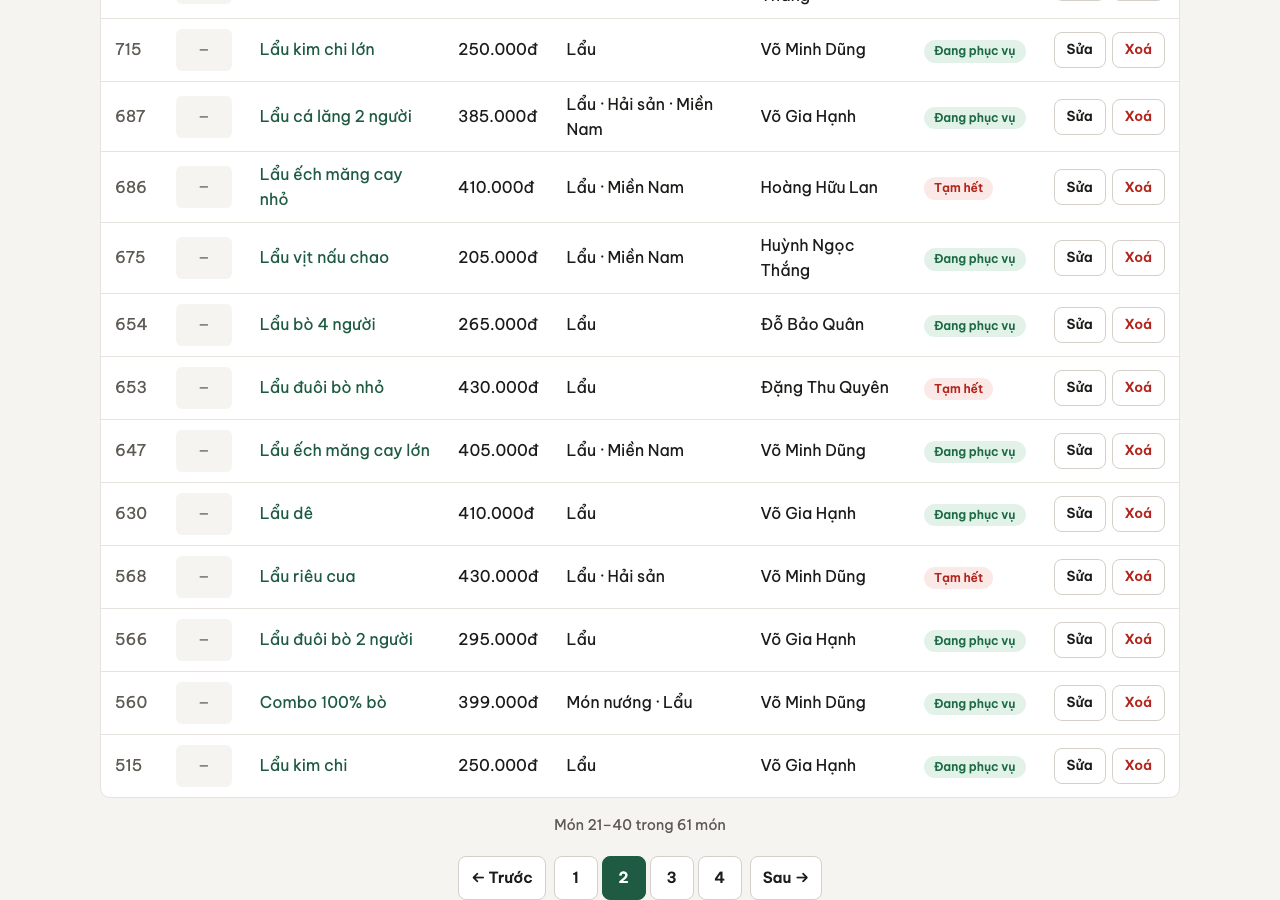
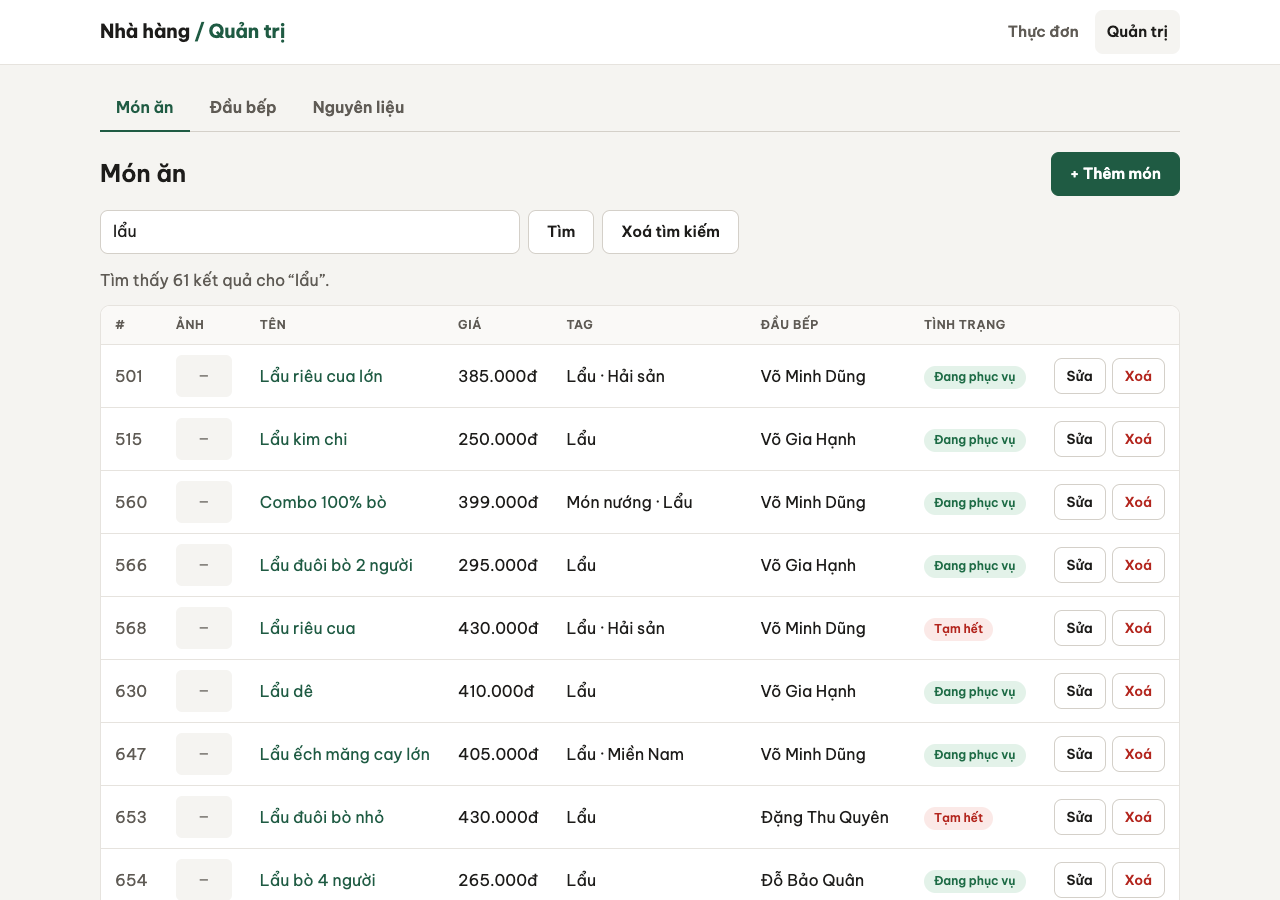
Nghiệm thu lại sau khi phân trang admin: README, hotrotrinhbay.html, kichban.html, evidence/ (admin món id tăng dần, admin đầu bếp trang 2) khớp code; check-api.sh 251/251; ghi lỗi tài liệu tràn ngang ở 375px (có từ bước 17, chưa sửa)

diff --git a/hotrotrinhbay.html b/hotrotrinhbay.html
@@ -158,7 +158,7 @@
       <h3>Chức năng</h3>
       <ul>
         <li><b>Dữ liệu:</b> 1.200 món, 60 đầu bếp, 250 nguyên liệu, 16 tag lưu thật trong Supabase; script seed tất định (chạy lại ra cùng dữ liệu).</li>
-        <li><b>Phân trang:</b> thực đơn <code>/dishes</code> có công tắc <b>Số trang / Tải thêm / Cuộn vô hạn</b>, cả ba gọi chung một API; admin món có số trang.</li>
+        <li><b>Phân trang:</b> thực đơn <code>/dishes</code> có công tắc <b>Số trang / Tải thêm / Cuộn vô hạn</b>, cả ba gọi chung một API; ba bảng quản trị (món, đầu bếp, nguyên liệu) có số trang, xếp id tăng dần.</li>
         <li><b>Lọc, sắp xếp:</b> theo tag, khoảng giá, trạng thái còn phục vụ; tên A→Z, giá tăng / giảm.</li>
         <li><b>Search:</b> cơ bản, nâng cao, toàn văn, gần đúng — đều tại server.</li>
         <li><b>URL:</b> điều kiện đã tìm (và số trang) nằm trên URL → Reload, copy link, Back/Forward mở lại đúng kết quả.</li>
@@ -173,7 +173,7 @@
         <li><b>Chuyển trang sau khi search:</b> giữ đúng bộ điều kiện, không trộn kết quả</li>
         <li><b>Xoá điều kiện, Reload, mở lại link:</b> khôi phục như thiết kế</li>
       </ol>
-      <p class="muted">Kết quả: API <b>211/211</b> kiểm tra (<code>check-api.sh</code>); truy vấn mẫu 14/14 đúng kỳ vọng; kịch bản trình duyệt bước 9–15 đạt hết; <b>cuộn hết 1.200 món: đủ id 1–1200, không trùng, không mất</b>. Chi tiết trong <code>BUILD_LOG.md</code>.</p>
+      <p class="muted">Kết quả: API <b>251/251</b> kiểm tra (<code>check-api.sh</code>, gồm 40 kiểm tra phân trang admin thêm sau nghiệm thu); truy vấn mẫu 14/14 đúng kỳ vọng; kịch bản trình duyệt bước 9–15 đạt hết; <b>cuộn hết 1.200 món: đủ id 1–1200, không trùng, không mất</b>. Chi tiết trong <code>BUILD_LOG.md</code>.</p>
     </div>
   </div>
 </section>
@@ -259,7 +259,8 @@
       <tr><td>Lọc tag, khoảng giá, trạng thái</td><td>Thực đơn, chế độ Nâng cao + chip tag</td><td>Toàn bộ món khớp</td><td>Nối bằng AND; ô trống = không lọc; <code>giá 0</code> và <code>available=false</code> là tiêu chí có hiệu lực</td></tr>
       <tr><td>Sắp xếp tên, giá tăng / giảm</td><td>Thực đơn (Cơ bản, Nâng cao)</td><td>Toàn bộ món khớp</td><td>Luôn thêm <code>id</code> làm thứ tự phụ → các trang chia trên cùng một thứ tự</td></tr>
       <tr><td>Xếp theo độ phù hợp</td><td>Toàn văn, Gần đúng</td><td>Toàn bộ món khớp</td><td>Ô sắp xếp bị khoá; điểm giảm dần rồi <code>id</code></td></tr>
-      <tr><td>Tìm theo tên hoặc tag, mới nhất trước</td><td>Admin món</td><td>Toàn bộ món</td><td>Món vừa thêm luôn ở trang 1</td></tr>
+      <tr><td>Tìm theo tên hoặc tag, id tăng dần</td><td>Admin món</td><td>Toàn bộ món khớp</td><td>Thứ tự cố định 1 → 1200; thêm món xong về trang 1 + thông báo, sửa xong về đúng trang đang xem</td></tr>
+      <tr><td>Tìm, id tăng dần, 20 dòng/trang</td><td>Admin đầu bếp, nguyên liệu</td><td>Toàn bộ đầu bếp / nguyên liệu khớp</td><td>Cùng dạng <code>{ items, total, page, pageSize }</code>; form món cần đủ danh sách gọi <code>?all=true</code></td></tr>
     </tbody>
   </table>
   </div>
@@ -348,7 +349,7 @@ COMMIT</code></pre>
       <p><code>100%</code> → 1 món (id 560), <code>Trà_</code> → 1 món (id 700), <code>\</code> → 1 món (id 960); <code>check-api.sh</code> phần D kiểm tra lại mỗi lần chạy; <code>wildcard-escape.sql</code> chạy cả hai phiên bản trên database.</p>
     </div>
   </div>
-  <p class="muted">Các lỗi khác tìm ra và đã sửa (danh sách cũ còn hiện thoáng qua khi đổi điều kiện ở Tải thêm, khung xương ngắn làm cuộn không tới đầu danh sách…) ghi trong <code>kichban.html</code> và <code>BUILD_LOG.md</code>.</p>
+  <p class="muted">Các lỗi khác tìm ra và đã sửa (danh sách cũ còn hiện thoáng qua khi đổi điều kiện ở Tải thêm, khung xương ngắn làm cuộn không tới đầu danh sách, ô tìm admin đầu bếp / nguyên liệu cũng hiểu <code>%</code> <code>_</code> là wildcard…) ghi trong <code>kichban.html</code> và <code>BUILD_LOG.md</code>.</p>
 </section>
 
 <!-- ============ 7. CÔNG NGHỆ ============ -->
@@ -366,7 +367,7 @@ COMMIT</code></pre>
       <tr><td><code>fetch</code> + <code>AbortController</code></td><td>Gọi API, huỷ request cũ</td><td>Đổi điều kiện nhanh thì response cũ không ghi đè hay nối vào kết quả mới</td></tr>
       <tr><td><code>IntersectionObserver</code></td><td>Cuộn vô hạn</td><td>Có sẵn trong browser; theo dõi một phần tử canh, không gắn sự kiện scroll</td></tr>
       <tr><td>CSS thuần</td><td>Giao diện, responsive, hiệu ứng cơ bản</td><td>Tiếp tục bộ màu block6; khung xương khi tải, món mới hiện dần; tắt chuyển động khi người dùng bật "giảm chuyển động"</td></tr>
-      <tr><td><code>check-api.sh</code> · <code>run-sql.js</code> · Chrome headless</td><td>Nghiệm thu</td><td>211 kiểm tra API; truy vấn mẫu có kỳ vọng; kịch bản trình duyệt gom id qua cả 3 kiểu UI</td></tr>
+      <tr><td><code>check-api.sh</code> · <code>run-sql.js</code> · Chrome headless</td><td>Nghiệm thu</td><td>251 kiểm tra API; truy vấn mẫu có kỳ vọng; kịch bản trình duyệt gom id qua cả 3 kiểu UI</td></tr>
       <tr><td>Git</td><td>Lưu phiên bản</td><td>Mỗi bước một commit; commit "Nghiệm thu giai đoạn I" đánh dấu mốc đạt đủ tiêu chí</td></tr>
     </tbody>
   </table>

diff --git a/kichban.html b/kichban.html
@@ -223,7 +223,7 @@ chefs  n &gt;───&lt; n tags              chef_tags        (chefId Cascade,
         <li><code>mode</code>: <code>basic</code> (mặc định) · <code>advanced</code> · <code>fulltext</code> · <code>fuzzy</code></li>
         <li><code>page</code> ≥ 1 (mặc định 1) · <code>pageSize</code> 1–100 (mặc định 12)</li>
         <li><code>q</code>: bắt buộc ở <code>fulltext</code>, <code>fuzzy</code></li>
-        <li><code>sort</code>: <code>ten</code> · <code>gia-tang</code> · <code>gia-giam</code> · <code>moi-nhat</code> (basic, advanced)</li>
+        <li><code>sort</code>: <code>ten</code> · <code>gia-tang</code> · <code>gia-giam</code> · <code>moi-nhat</code> (basic, advanced; <code>moi-nhat</code> = id giảm, giữ trong API, admin không dùng nữa)</li>
         <li><code>tag</code>, <code>minPrice</code>, <code>maxPrice</code>, <code>available</code>: chỉ <code>advanced</code>, nối bằng AND</li>
         <li><code>searchIn=name,tag</code>: admin tìm cả tên tag (basic)</li>
       </ul>
@@ -407,7 +407,7 @@ COMMIT</code></pre></li>
   <h3 style="margin-top:16px">Phần 3 — Tag và chức năng cũ (không hồi quy)</h3>
   <div class="card">
     <ol class="demo" start="18">
-      <li><strong>Admin món:</strong> <code>/admin/dishes</code> → <span class="see">20 món/trang, id 1200 ở đầu (mới nhất trước), 60 trang.</span> Tìm <code>lẩu</code> → <span class="see">61 món (tên hoặc tag), "Combo 100% bò" có trong kết quả.</span> Vào trang 3, sửa một món, Lưu → <span class="see">quay về đúng trang 3 + "Đã lưu thay đổi của món.", dòng được tô.</span></li>
+      <li><strong>Admin món:</strong> <code>/admin/dishes</code> → <span class="see">20 món/trang, id 1 ở đầu (id tăng dần), 60 trang; request <code>/api/dishes?pageSize=20</code>.</span> <code>/admin/chefs</code>, <code>/admin/ingredients</code> → <span class="see">cũng 20 dòng/trang ("Đầu bếp 1–20 trong 60 đầu bếp", 3 trang; nguyên liệu 13 trang), không còn tải cả 60 / 250 dòng.</span> Thêm một đầu bếp từ trang 2 → <span class="see">về trang 1 + "Đã thêm đầu bếp." (người mới ở cuối trang 4).</span> Tìm <code>lẩu</code> → <span class="see">61 món (tên hoặc tag), "Combo 100% bò" có trong kết quả.</span> Vào trang 3, sửa một món, Lưu → <span class="see">quay về đúng trang 3 + "Đã lưu thay đổi của món.", dòng được tô.</span></li>
       <li><strong>Thêm tag trong form:</strong> <code>/admin/chefs/new</code>, gõ tên, ô tìm tag gõ "Món Huế" → <span class="see">không có;</span> bấm "+ Thêm tag" → "Thêm và chọn" → <span class="see"><code>POST /api/tags</code>, tag mới đã tick sẵn, tên vẫn còn.</span> Thêm lại "món huế" → <span class="see">"Đã có tag tên này." (không phân biệt hoa thường).</span></li>
       <li><strong>Đầu bếp đúng chuyên môn:</strong> <code>/admin/dishes/new</code>, tick tag <strong>Lẩu</strong> → <span class="see">các đầu bếp chuyên Lẩu lên đầu danh sách, nhãn "Đúng chuyên môn".</span></li>
       <li><strong>Chức năng block6:</strong> <code>/admin/ingredients/1/delete</code> ("Thịt bò") → <span class="see">liệt kê món đang dùng, không có nút Xoá.</span> <code>/admin/chefs/7/delete</code> ("Bùi Thanh Tâm", 0 món) → <span class="see">xoá được ngay.</span> Tắt API → <span class="see">"Không tải được dữ liệu" + Thử lại ở cả Số trang và Tải thêm.</span></li>
@@ -442,6 +442,7 @@ COMMIT</code></pre></li>
       <tr><td>15</td><td>Chuyển trang không cuộn tới đầu danh sách</td><td>Khung xương 6 dòng làm trang thấp đi → khung xương 12 dòng = một trang</td></tr>
       <tr><td>16</td><td>Đường kẻ dưới mỗi món cong ở hai đầu</td><td><code>border-radius</code> của hiệu ứng nổi đặt sẵn → chỉ bo góc khi rê chuột</td></tr>
       <tr><td>17</td><td>Toàn văn "cá kho tộ": 10 món cùng hiện 1.000 nhưng id lộn xộn (8, 109, 201, 80…)</td><td><code>ts_rank</code> là float4, khác nhau ở sai số → làm tròn 3 chữ số trong SQL rồi mới xếp; thêm kiểm tra vào <code>check-api.sh</code> D</td></tr>
+      <tr><td>19</td><td>Ô tìm admin đầu bếp / nguyên liệu: <code>q=%</code>, <code>q=_</code> trả cả 60 / 250 dòng</td><td><code>searchWhere</code> giữ từ block6 chưa escape (bước 7 chỉ sửa tìm món) → mọi ô tìm admin đi qua <code>escapeLike</code>; <code>check-api.sh</code> F kiểm tra lại (total 0)</td></tr>
     </table></div>
   </div>
 </section>

diff --git a/README.md b/README.md
@@ -45,12 +45,13 @@ npx prisma db seed                                         # nạp dữ liệu m
 
 ```bash
 cd api
-./scripts/check-api.sh        # 211 kiểm tra (cần curl, jq; API đang chạy)
+./scripts/check-api.sh        # 251 kiểm tra (cần curl, jq; API đang chạy)
 ./scripts/check-api.sh A      # 74 — bảng REST của đề block6 + kỹ thuật + CORS
 ./scripts/check-api.sh B      # 34 — mở rộng block6 (quan hệ, ảnh, tìm admin, IN_USE, chuyển món)
 ./scripts/check-api.sh C      # 24 — phân trang: metadata, trang vượt phạm vi, page/pageSize sai, sort qua mọi trang
 ./scripts/check-api.sh D      # 44 — search 4 chế độ: escape % _ \, basic = advanced, 0 và false, fulltext, fuzzy (cùng điểm → id)
 ./scripts/check-api.sh E      # 35 — tag: GET/POST /api/tags, tagIds của món và đầu bếp
+./scripts/check-api.sh F      # 40 — phân trang admin /api/chefs, /api/ingredients: metadata, all=true, tham số sai, gom mọi trang, escape % _ \
 ```
 Kiểm tra 500 (mất kết nối DB): `DATABASE_URL="postgresql://u:p@127.0.0.1:1/x" PORT=3001 node src/app.js &` rồi `API_BROKEN=http://localhost:3001 ./scripts/check-api.sh A`. Script tự tạo rồi xoá bản ghi test (tag mới thì không xoá được) → **seed lại sau khi test**.
 
@@ -98,7 +99,7 @@ Lỗi kỹ thuật không theo shape này: sai URL → **404**, body JSON hỏng
 | `page`, `pageSize` | mọi chế độ | số nguyên dương; `pageSize` ≤ 100, mặc định 12; sai (0, âm, `1.5`, `abc`) → `VALIDATION_FAILED` |
 | `q` | basic, advanced | tên **chứa** chuỗi, không phân biệt hoa thường; `%`, `_`, `\` là ký tự thường; trống → không có tiêu chí tên |
 | `q` | fulltext, fuzzy | **bắt buộc** (trống → `VALIDATION_FAILED`) |
-| `sort` | basic, advanced | `ten` \| `gia-tang` \| `gia-giam` \| `moi-nhat`; trống = `id` tăng dần. Luôn thêm `id ASC` làm thứ tự phụ |
+| `sort` | basic, advanced | `ten` \| `gia-tang` \| `gia-giam` \| `moi-nhat` (id giảm, giữ trong API; trang admin không dùng nữa); trống = `id` tăng dần. Luôn thêm `id ASC` làm thứ tự phụ |
 | `tag` | advanced | id tag có thật |
 | `minPrice`, `maxPrice` | advanced | số nguyên ≥ 0 (`0` là tiêu chí có hiệu lực); `minPrice > maxPrice` → lỗi ở `maxPrice` |
 | `available` | advanced | `true` \| `false` (`false` là tiêu chí có hiệu lực); giá trị khác → lỗi |
@@ -132,7 +133,14 @@ Tag chỉ thêm, không sửa / xoá (nhóm chốt).
   { "name": "Bún riêu", "price": 45000, "tagIds": [2, 14], "chefId": 1, "ingredientIds": [11, 18], "available": true }
   ```
 - `POST` / `PATCH /api/chefs` nhận `{ name, tagIds }` (chuyên môn, ≥ 1) thay cho `specialty`. `GET /api/chefs?q=` khớp tên **hoặc** tên chuyên môn; mỗi đầu bếp có `tags`, `dishCount`.
-- `/api/ingredients`, `DELETE /api/chefs/:id?transferTo=`, `IN_USE`, CORS: giữ nguyên block6.
+- `DELETE /api/chefs/:id?transferTo=`, `IN_USE`, CORS: giữ nguyên block6.
+
+### `GET /api/chefs`, `GET /api/ingredients` — phân trang cho trang quản trị
+
+- Trả `data: { items, total, page, pageSize }` như `/api/dishes`, xếp `id` tăng dần. `total` đếm cùng điều kiện `q`, cùng transaction với `items`.
+- `?q=`: đầu bếp khớp tên hoặc tên chuyên môn; nguyên liệu khớp tên hoặc đơn vị. Không phân biệt hoa thường, `%` `_` `\` là chữ thường (`escapeLike`).
+- `?page=` (mặc định 1), `?pageSize=` (mặc định 20, tối đa 100). Sai → `VALIDATION_FAILED` kèm `fields`; trang vượt phạm vi → `items: []`, `total` thật, `page` giữ nguyên.
+- `?all=true`: bỏ phân trang, trả mọi bản ghi khớp (`page: 1`, `pageSize: total`). Dùng cho form món (chọn đầu bếp, nguyên liệu) và trang xoá đầu bếp (chọn người nhận món). `all` khác `true` → `VALIDATION_FAILED`.
 
 ## Các trang của SPA
 
@@ -140,9 +148,12 @@ Tag chỉ thêm, không sửa / xoá (nhóm chốt).
 | :--- | :--- | :--- |
 | `/dishes` | Thực đơn: khung tìm 4 chế độ, chip tag, sắp xếp; công tắc **Số trang / Tải thêm / Cuộn vô hạn** | `GET /api/dishes?…&pageSize=12`, `GET /api/tags` |
 | `/dishes/:id` | Chi tiết: ảnh, giá, tag (link lọc), đầu bếp, nguyên liệu | `GET /api/dishes/:id` |
-| `/admin/dishes?q=&page=` | Quản trị món: 20 món/trang, mới nhất trước, tìm theo tên hoặc tag | `GET /api/dishes?searchIn=name,tag&sort=moi-nhat&pageSize=20` |
+| `/admin/dishes?q=&page=` | Quản trị món: 20 món/trang, id tăng dần, tìm theo tên hoặc tag | `GET /api/dishes?searchIn=name,tag&pageSize=20` |
 | `/admin/dishes/new`, `/:id/edit`, `/:id/delete` | Form món (chọn nhiều tag, thêm tag mới, đầu bếp đúng chuyên môn lên đầu), xác nhận xoá | `/api/dishes…`, `/api/tags` |
-| `/admin/chefs/…`, `/admin/ingredients/…` | Như block6; đầu bếp chọn chuyên môn bằng tag | `/api/chefs…`, `/api/ingredients…` |
+| `/admin/chefs?q=&page=`, `/admin/ingredients?q=&page=` | Quản trị đầu bếp / nguyên liệu: 20 dòng/trang, id tăng dần, tìm | `GET /api/chefs?q=&page=&pageSize=20`, `GET /api/ingredients?…` |
+| `/admin/chefs/…`, `/admin/ingredients/…` (form, xoá) | Như block6; đầu bếp chọn chuyên môn bằng tag | `/api/chefs…`, `/api/ingredients…`, `?all=true` cho danh sách chọn |
+
+**Sau khi lưu ở trang quản trị:** sửa / xoá / Huỷ → về đúng trang danh sách đang xem (giữ `page`, `q`), dòng vừa sửa được tô. Thêm mới → về trang 1 + thông báo (bản ghi mới nằm ở trang cuối).
 
 **URL của thực đơn** chứa toàn bộ điều kiện đã áp dụng: `/dishes?mode=&q=&tag=&minPrice=&maxPrice=&available=&sort=&view=&page=` (giá trị mặc định không ghi).
 - Áp dụng điều kiện khi bấm Tìm / Enter (ô chữ) hoặc khi đổi ô chọn, chip — không theo từng phím. Đổi điều kiện → về trang 1 / danh sách mới. Chuyển trang → giữ điều kiện, chỉ đổi `page`.
@@ -158,11 +169,11 @@ block7/
 │   ├── prisma/schema.prisma              7 bảng (tag nhiều-nhiều cho món và chuyên môn đầu bếp)
 │   ├── prisma/seed.js, seed-data/        seed tất định 1.200 món (bộ sinh có tự kiểm tra)
 │   ├── prisma/sql/                       setup-search (pg_trgm), search-examples, count-rows, wildcard-escape
-│   ├── scripts/check-api.sh, run-sql.js  211 kiểm tra API; chạy file .sql và in kết quả
+│   ├── scripts/check-api.sh, run-sql.js  251 kiểm tra API; chạy file .sql và in kết quả
 │   └── src/
 │       ├── db.js                         PrismaClient dùng chung (SSL có CA), LOG_SQL
 │       ├── routes/                       dishes (phân trang + search), chefs, ingredients, tags
-│       ├── validators/list-query.js      đọc query danh sách, escapeLike, điều kiện basic/advanced
+│       ├── validators/list-query.js      đọc query danh sách (page/pageSize dùng chung), escapeLike, điều kiện tìm
 │       └── search/fulltext.js, fuzzy.js  $queryRaw: total + id/score của trang trong một câu SQL
 ├── web/src/
 │   ├── listQuery.js                      URL trang ↔ tham số API

diff --git a/BUILD_LOG.md b/BUILD_LOG.md
@@ -563,3 +563,41 @@ Phương án bỏ:
   - chọn "thịt" (chỉ 6 kết quả) cho ca trang 2;
   - `a.matches()` nhận chữ không phải selector.
   Đổi sang `q=a` (76 kết quả) và sửa hàm.
+
+## Bước 21 — Nghiệm thu lại, cập nhật tài liệu và bằng chứng (plan mục 12)
+**Đã làm:**
+- `README.md`:
+  - `check-api.sh` 251 kiểm tra (thêm dòng phần F);
+  - mục mới "`GET /api/chefs`, `GET /api/ingredients` — phân trang" (metadata, `q`, `page`/`pageSize`, `all=true`);
+  - bảng trang SPA: admin món id tăng dần (không còn `sort=moi-nhat`), admin đầu bếp / nguyên liệu `?q=&page=`;
+  - quy tắc quay về sau khi lưu; `moi-nhat` ghi chú "giữ trong API, admin không dùng".
+- `hotrotrinhbay.html`:
+  - phạm vi: ba bảng quản trị có số trang;
+  - kết quả 251/251;
+  - bảng "lọc và sắp xếp": admin món id tăng dần + dòng admin đầu bếp / nguyên liệu;
+  - lỗi wildcard ở admin trong danh sách lỗi khác.
+- `kichban.html`:
+  - ghi chú `moi-nhat`;
+  - demo bước 18: admin món id 1 ở đầu, đầu bếp / nguyên liệu 20 dòng/trang, thêm đầu bếp → về trang 1 + thông báo;
+  - bảng lỗi thêm dòng bước 19.
+- `evidence/` thu lại phần admin trên seed chuẩn (API `LOG_SQL=1`, SPA `vite` dev):
+  - `sql-log/admin.txt`: `ORDER BY id ASC LIMIT/OFFSET`, id 501 … 848, total 61;
+  - `sql-log/admin-dau-bep.txt` (mới): id 21–40, total 60;
+  - `screens/admin.png`, `screens/admin-dau-bep.png` (mới);
+  - `network-log.md` mục admin món + mục admin đầu bếp; `evidence/README.md` ghi ngày thu lại;
+  - không file nào chứa host / user / mật khẩu (`grep "postgres\.\|pooler\|password"` → 0).
+
+**Đã kiểm tra:**
+- `check-api.sh` trên code cuối: **251/251 đạt**. Seed lại sau đó.
+- Kịch bản bước 20: **47/47** (chạy trước khi viết tài liệu, code SPA không đổi từ đó).
+- Thực đơn không hồi quy:
+  - `/dishes?page=2` → id 13–24;
+  - Tải thêm → 24 món, request `page=2`;
+  - không lỗi console.
+- Hai trang tài liệu ở 1280px không cuộn ngang, mọi link mục lục trỏ đúng id. `vite build` thành công.
+- Chưa chạy lại các kịch bản trình duyệt bước 10–14 (gom id qua 3 kiểu UI). Script của các bước đó không nằm trong repo, và bước 19–20 không sửa thực đơn hay `/api/dishes`; `check-api.sh` C, D vẫn đạt.
+
+**Phát hiện, chưa sửa (ngoài phạm vi, chờ nhóm quyết):** ở 375px, `hotrotrinhbay.html` rộng 594px và `kichban.html` rộng 881px → cuộn ngang.
+- Đo bằng hai cách (giả lập thiết bị và iframe 375px qua HTTP) đều ra cùng con số. Bản HEAD trước bước 21 cũng vậy → lỗi có từ bước 17, không phải do lần sửa này.
+- Bước 17 ghi "không cuộn ngang ở 375px" là **sai**.
+- Phần tràn: các khối `pre`/`code` dài (biểu thức full-text, sơ đồ quan hệ bảng, URL request mẫu).

diff --git a/evidence/network/network-log.md b/evidence/network/network-log.md
@@ -109,10 +109,20 @@ URL trang: `/dishes?mode=advanced&minPrice=abc` · ảnh: [screens/tham-so-sai.p
 | `/api/tags` | 200 | application/json | 0.2 KB | mảng 18 tag |
 | `/api/dishes?mode=advanced&pageSize=12&minPrice=abc` | 200 | application/json | 0.5 KB | ok: false, VALIDATION_FAILED (minPrice) |
 
-### Admin món — tìm “lẩu”, trang 2 (20 món/trang, mới nhất trước)
+### Admin món — tìm “lẩu”, trang 2 (20 món/trang, id tăng dần — thu lại 29/10/2026)
 
 URL trang: `/admin/dishes?q=lẩu&page=2` · ảnh: [screens/admin.png](../screens/admin.png) · SQL: [sql-log/admin.txt](../sql-log/admin.txt)
 
 | Request (fetch) | Status | Kiểu | Dung lượng | Nội dung |
 | :--- | :--- | :--- | :--- | :--- |
-| `/api/dishes?q=lẩu&searchIn=name,tag&sort=moi-nhat&page=2&pageSize=20` | 200 | application/json | 7.2 KB | items 20, total 61, page 2, pageSize 20 |
+| `/api/dishes?q=lẩu&searchIn=name,tag&page=2&pageSize=20` | 200 | application/json | 6.9 KB | items 20, total 61, page 2, pageSize 20; id 501 … 848 tăng dần |
+
+### Admin đầu bếp — trang 2 (20 đầu bếp/trang, id tăng dần — thêm 29/10/2026)
+
+URL trang: `/admin/chefs?page=2` · ảnh: [screens/admin-dau-bep.png](../screens/admin-dau-bep.png) · SQL: [sql-log/admin-dau-bep.txt](../sql-log/admin-dau-bep.txt)
+
+| Request (fetch) | Status | Kiểu | Dung lượng | Nội dung |
+| :--- | :--- | :--- | :--- | :--- |
+| `/api/chefs?page=2&pageSize=20` | 200 | application/json | 2.2 KB | items 20 (id 21–40), total 60, page 2, pageSize 20 |
+
+Trước đây (bước 19 trở về trước) trang này gọi `/api/chefs` và nhận cả 60 đầu bếp; admin nguyên liệu nhận cả 250 nguyên liệu. Form món, trang xoá đầu bếp vẫn cần đủ danh sách nên gọi `?all=true`.

diff --git a/evidence/README.md b/evidence/README.md
@@ -1,6 +1,6 @@
 # Bằng chứng nộp — Block 7 (tìm kiếm và phân trang)
 
-Thu ngày 26/10/2026 trên dữ liệu seed chuẩn (`npx prisma db seed`, tất định), API :3000 và bản production của SPA (`vite build` + `vite preview` :5173). Thư mục này **không** chứa `.env`, chuỗi kết nối, host hay mật khẩu database. Log SQL chỉ có câu SQL và giá trị tham số (từ khoá, số trang).
+Thu ngày 26/10/2026 trên dữ liệu seed chuẩn (`npx prisma db seed`, tất định), API :3000 và bản production của SPA (`vite build` + `vite preview` :5173). Phần admin (`sql-log/admin.txt`, `admin-dau-bep.txt`, `screens/admin.png`, `admin-dau-bep.png`) thu lại ngày 29/10/2026 sau khi bảng admin đổi sang id tăng dần và đầu bếp, nguyên liệu có số trang (plan mục 12), trên seed chuẩn, SPA chạy bằng `vite` dev. Thư mục này **không** chứa `.env`, chuỗi kết nối, host hay mật khẩu database. Log SQL chỉ có câu SQL và giá trị tham số (từ khoá, số trang).
 
 ## Đối chiếu với yêu cầu của đề
 
